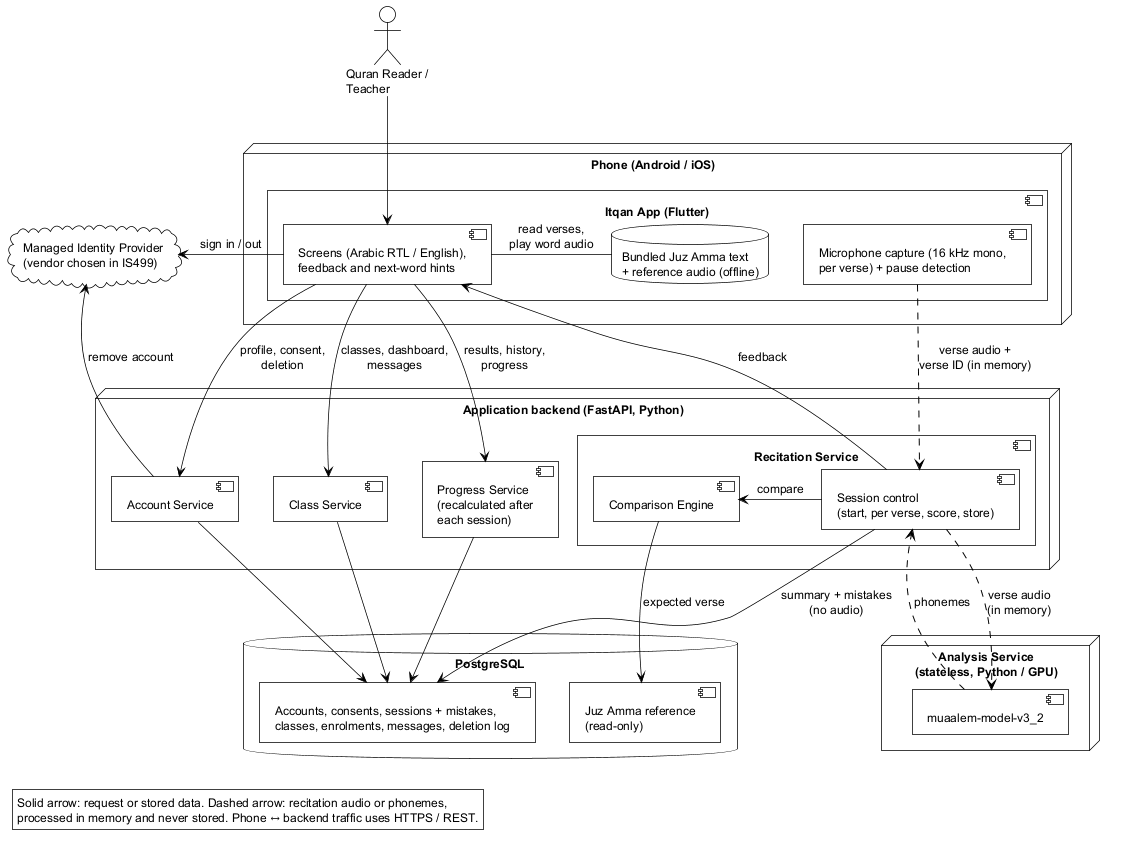
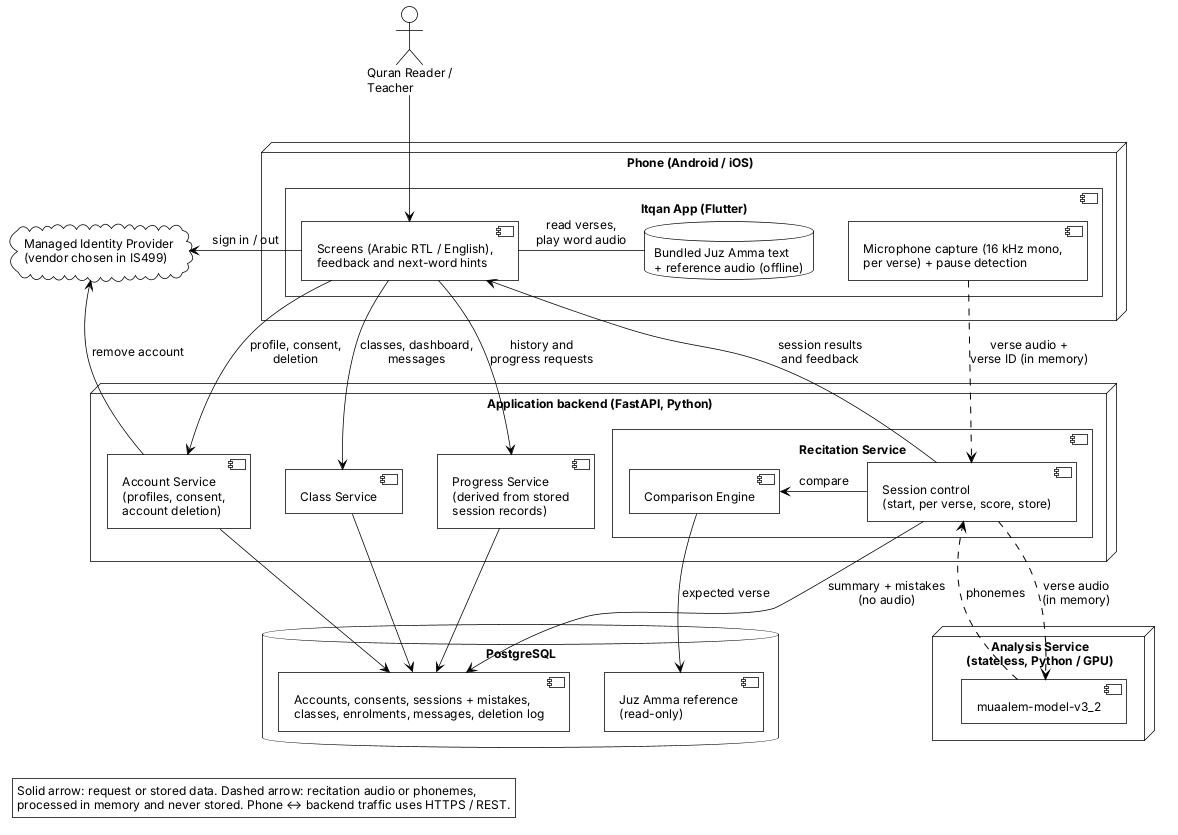
docs: clarify architecture diagram responsibilities from review notes
- Progress Service: derived from stored session records (not stored data)
- Account Service: profiles, consent, account deletion
- Split results flow: Recitation Service -> App (session results and feedback);
  App -> Progress Service (history and progress requests)
- ARCHITECTURE.md wording aligned with the diagram

Claude-Session: https://claude.ai/code/session_01UDnT9N5cADUVkcpwbRMuZQ

diff --git a/docs/updated-diagrams/architecture/ARCHITECTURE.md b/docs/updated-diagrams/architecture/ARCHITECTURE.md
@@ -25,7 +25,7 @@ Every part in requirements §10 appears in the diagram.
 | **Recitation Service** | Application backend | Runs each session; **all session traffic goes through it**. Its *session control* part starts the session, sends each verse for analysis, returns feedback, ends the session, calculates the score and stores the results. | FR-11–FR-20 |
 | **Comparison Engine** | Inside the Recitation Service | Aligns the returned phonemes with the expected verse, classifies errors and links each error to a word. | FR-14, FR-15 |
 | **Analysis Service** | Separate stateless Python/GPU service (`obadx/muaalem-model-v3_2`) | Receives one verse's audio and returns phonemes with articulation attributes. Keeps nothing. | FR-13 |
-| **Progress Service** | Application backend | Results, session history, best score per surah, full mastery, average mastery and streak. Recalculated after each session. | FR-20–FR-22 |
+| **Progress Service** | Application backend | Session history, best score per surah, full mastery, average mastery and streak, all derived from stored session records (not stored as separate data). | FR-20–FR-22 |
 | **Class Service** | Application backend | Classes, join codes, enrolments, the teacher dashboard with enrolment and join-date checks, and messages with read status. | FR-23–FR-25 |
 | **Database** | PostgreSQL | Stores only §8.1: accounts, consents, sessions and mistakes, classes, enrolments, messages, the deletion log, and the read-only Juz Amma reference tables. | All stored data |
 
@@ -39,16 +39,16 @@ Every part in requirements §10 appears in the diagram.
 | Account Service → Identity Provider | Remove the account on deletion (FR-28) | HTTPS |
 | Screens → Account Service | Profile, consent, data summary, deletion | HTTPS / REST |
 | Screens → Class Service | Classes, join, leave, dashboard, messages | HTTPS / REST |
-| Screens → Progress Service | Results, history, progress, streak | HTTPS / REST |
+| Screens → Progress Service | History and progress requests | HTTPS / REST |
 | Microphone capture → Recitation Service | One verse's audio + verse ID | HTTPS, **transient** |
-| Recitation Service → Screens | Per-verse feedback | HTTPS / REST |
+| Recitation Service → Screens | Session results and feedback | HTTPS / REST |
 | Recitation Service → Analysis Service → Recitation Service | Verse audio in; phonemes out | **Transient**, in memory |
 | Comparison Engine → Database (Juz Amma reference) | Expected verse and word positions (read-only) | SQL read |
 | Recitation Service → Database | Session summary + mistakes at session end (no audio) | SQL write |
 | Account, Class and Progress Services → Database | Their own data | SQL |
 | Screens ↔ Bundled Juz Amma | Verse text, word reference audio | On the phone, offline |
 
-**Not drawn as an arrow:** at the end of a session, the Recitation Service asks the Progress Service to recalculate (§10 main path). An arrow inside the backend node could not be laid out without crossing other lines, so the Progress Service label says "recalculated after each session" instead. The call is shown step by step in the recitation sequence diagram (Task 5).
+**Not drawn as an arrow:** at the end of a session, the Recitation Service asks the Progress Service to recalculate (§10 main path). An arrow inside the backend node could not be laid out without crossing other lines, so the Progress Service label says "derived from stored session records" instead. The call is shown step by step in the recitation sequence diagram (Task 5).
 
 ## 4. Processing and storage boundaries
 
@@ -58,7 +58,7 @@ Every part in requirements §10 appears in the diagram.
 | Phonemes (analysis output) | Analysis Service → Recitation Service memory | **Never**. Discarded after comparison. |
 | Feedback, praise, hints, audio-assistance requests | Recitation Service → phone screen | **Never** (§8.3). |
 | Session summary + mistakes | Recitation Service → Database | **Stored** (BR-05). |
-| Progress figures (best score, mastery, streak) | Progress Service | **Derived** from stored sessions; may be cached (§8.1). |
+| Progress figures (best score, mastery, streak) | Progress Service | **Derived** from stored session records; not stored as separate data. |
 | Juz Amma text | Phone bundle (offline display) **and** Database (read-only reference for comparison and mistake links) | Read-only reference data. |
 | Reference word audio | Phone bundle only | Bundled with the app, not in the database. |
 | Credentials and passwords | Identity Provider only | Never stored by Itqan. |
